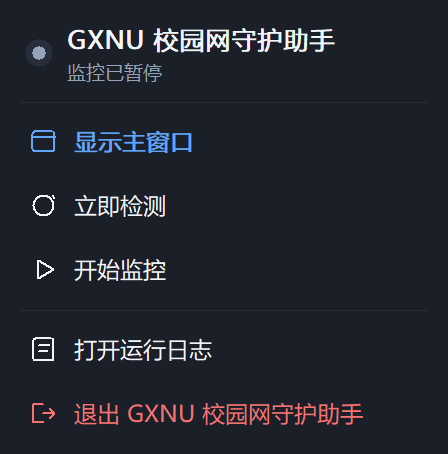
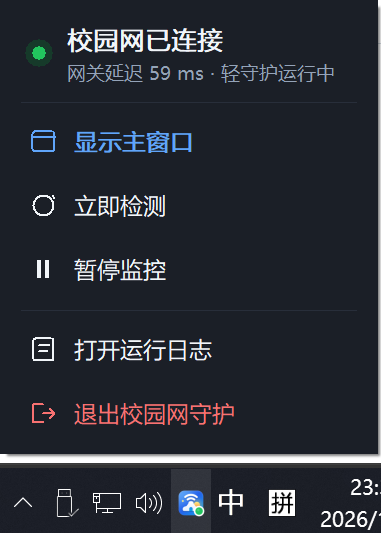
置顶双主题预览，补充任务栏状态图例与使用说明

diff --git a/README.en.md b/README.en.md
@@ -10,28 +10,51 @@
   &nbsp;·&nbsp; <a href="LICENSE"><img src="docs/images/license-mit.svg" alt="MIT License" align="absmiddle"></a>
 </p>
 
-## What you can do
+## Screenshots
 
-- **Reconnect after an outage.** The helper checks the network adapter, route, internet connection, and campus portal session. When a sign-in is needed, it uses your saved account, then checks internet access again to confirm recovery. Enable Windows notifications to see when the connection drops or returns.
-- **See when your connection dropped.** The dashboard plots campus portal response times over the last **1, 7, or 24 hours**. Match a gap in the connection timeline to an outage record, then filter the log by time, severity, or keyword.
-- **Control monitoring from the tray.** Right-click the tray icon to run a check, pause or resume monitoring, or open the log. Closing the dashboard leaves monitoring running in the background. Click the tray icon to reopen it.
+| Light theme | Dark theme |
+| :---: | :---: |
+| [![Light dashboard with portal latency and outage history](docs/images/main-window-light.png)](docs/images/main-window-light.png) | [![Dark dashboard with portal latency and outage history](docs/images/main-window.png)](docs/images/main-window.png) |
 
-## How it handles campus network problems
+Select a dashboard screenshot to view it at full size. Both dashboard screenshots use the `DEMO` account and sample network history.
 
-| Situation | What the helper does |
-| --- | --- |
-| You switch from Wi-Fi to Ethernet or wake the computer from sleep | It waits for the route to settle before checking again, reducing false alerts and unnecessary sign-ins. |
-| Websites stop loading while your campus session is still active | It compares internet probes with the portal’s session status. If the portal confirms you are online, it reports an upstream connection problem and waits for recovery without resubmitting your password. |
-| The portal repeatedly rejects your account or carrier | It retries the first rejection silently. Repeated rejections prompt you to check your account, and the retry interval grows to a maximum of five minutes. |
-| You want a one-off connection check | Pause monitoring and select **立即检测** (Check now). The helper runs one read-only check and stays paused. |
+## Why use it
+
+- **A small Rust process stays in the tray.** One Windows executable contains the background monitor and the on-demand dashboard. Closing the dashboard ends its process. The project recorded about **2.9 MB of private memory and a 5.8 MB working set** for the background process alone. The open dashboard uses additional memory. [Architecture and memory figures (Chinese)](docs/ARCHITECTURE.md)
+- **Prompt reconnection when the network changes.** Switching Wi-Fi, plugging or unplugging Ethernet, or waking the computer triggers a check. Once the route settles, the helper checks the campus session, signs in when needed, and verifies internet access. If the portal still reports an active session, it reports an upstream fault and avoids repeated sign-ins.
+- **An outage history you can investigate.** View **1, 7, or 24 hours** of campus portal latency. Match a drop on the chart to an outage record, then filter the log by time, severity, or keyword to distinguish an expired session from an unreachable gateway.
 
 ## Get started
 
-1. Open Releases using the download link above. Download the Windows x64 ZIP, extract it to a folder you plan to keep, and run `GXNU 校园网守护助手.exe`.
-2. Under **账号与网络** (Account and network), enter your campus student ID and password, select your carrier, and click **保存并开始守护** (Save and start monitoring).
-3. To launch the app at Windows sign-in, open **监控** (Monitoring) and enable **开机自动启动到托盘** (Start in the tray). To begin checking the connection whenever the app launches, also enable **启动后立即开始监控** (Start monitoring on launch).
+1. **Download and extract.** Follow the Windows x64 download link above, extract the ZIP to a folder you plan to keep, and run `GXNU 校园网守护助手.exe`.
+2. **Set up your account.** Under **账号与网络** (Account and network), enter your campus student ID and password, choose your carrier, and select **保存并开始守护** (Save and start monitoring). The top of the dashboard shows your connection status and last check time.
+3. **Set startup preferences.** Under **监控** (Monitoring), enable **开机自动启动到托盘** to launch the app in the tray when you sign in to Windows. Enable **启动后立即开始监控** as well if you want checks to start on launch.
 
-To quit completely, right-click the tray icon and select **退出 GXNU 校园网守护助手** (Exit).
+### Everyday controls
+
+| Task | How to do it |
+| --- | --- |
+| Keep monitoring in the background | Close the dashboard. The monitor stays in the tray. Click its icon in the Windows notification area to reopen the dashboard. |
+| Investigate the last outage | Choose a time range, find the event under **断网记录与原因** (Outages and causes), then check **运行日志** (Log) for the same time. |
+| Run a single check | Right-click the tray icon, select **暂停监控** (Pause), then **立即检测** (Check now). The check is read-only and monitoring stays paused. |
+| Resume monitoring or quit | Select **开始监控** (Start monitoring) from the tray, or **退出 GXNU 校园网守护助手** (Exit) to quit completely. |
+| Switch themes | Click the sun or moon in the upper-right corner of the dashboard to switch between light and dark themes. |
+
+### Tray icon states
+
+The dot in the lower-right corner of the tray icon shows the current state. Hover over the icon for the exact status, including which of the three amber stages is active.
+
+<img src="docs/images/tray-menu.png" alt="Windows taskbar with a green dot on the helper icon. The open menu reports an active campus connection and 59 ms gateway latency." width="300">
+
+The green dot on the helper’s Wi-Fi icon means the connection is online. The open menu confirms **校园网已连接** (Campus network connected) and shows the gateway latency measured at that moment, 59 ms.
+
+| Icon | Tooltip in the app | Meaning |
+| :---: | --- | --- |
+| <img src="docs/images/tray-online.png" width="28" alt="Green dot"> | 网络正常 · Online | An internet probe succeeded. Routine checks continue at the configured interval. |
+| <img src="docs/images/tray-checking.png" width="28" alt="Sky-blue dot"> | 检测中 · Checking | A connection check is in progress. |
+| <img src="docs/images/tray-recovery.png" width="28" alt="Amber dot"> | 正在复核 / 正在登录 / 正在验证 | Rechecking a failure, signing in to the portal, or verifying internet access after sign-in, respectively. A recheck can also return directly to online. |
+| <img src="docs/images/tray-offline.png" width="28" alt="Red dot"> | 连接异常 · Offline | Open the dashboard to see the cause. If the portal repeatedly rejects sign-in, check the student ID, password, and carrier. |
+| <img src="docs/images/tray-paused.png" width="28" alt="Gray dot"> | 已暂停 / 已停止 · Paused or stopped | Automatic checks are inactive. While paused, you can run a single check or resume monitoring from the tray. |
 
 <details>
 <summary>Upgrade from v0.1.0 or verify a download</summary>
@@ -49,16 +72,6 @@ Get-FileHash .\gxnu-campus-net-helper-0.1.1-windows-x64.zip -Algorithm SHA256
 ```
 
 </details>
-
-## Screenshots
-
-**Dashboard** · Account settings, portal latency, outage history, and logs share one screen. The `DEMO` account and network history in this screenshot are sample data.
-
-![Dashboard showing 24 hours of portal latency, two outages, and the event log](docs/images/main-window.png)
-
-**Tray menu** · The menu shows the current monitoring state. Here monitoring is paused, and a one-off check is still available.
-
-<img src="docs/images/tray-menu.png" alt="Tray menu with monitoring paused and actions to check now, start monitoring, or exit" width="256">
 
 ## Data and privacy
 

diff --git a/README.md b/README.md
@@ -10,28 +10,51 @@
   &nbsp;·&nbsp; <a href="LICENSE"><img src="docs/images/license-mit.svg" alt="MIT 许可证" align="absmiddle"></a>
 </p>
 
-## 能帮你做什么
+## 界面预览
 
-- **掉线后自动重连。** 助手检查网卡、路由、公网连通性和校园网门户会话。确认需要认证时，使用已保存的账号登录，再次访问公网以确认恢复。你可以开启 Windows 通知，及时看到断网和恢复提醒。
-- **回看什么时候断过网。** 主窗口可切换最近 **1、7 或 24 小时**的门户响应延迟曲线。通断时间轴和断网记录显示异常发生的时刻，运行日志可按时间、级别或关键词筛选。
-- **从托盘掌控监控。** 右键托盘图标即可立即检测、暂停或恢复监控、打开日志。关闭主窗口后，后台守护继续工作；再次单击托盘图标即可查看详情。
+| 浅色主题 | 深色主题 |
+| :---: | :---: |
+| [![浅色主窗口，含门户延迟曲线与断网记录](docs/images/main-window-light.png)](docs/images/main-window-light.png) | [![深色主窗口，含门户延迟曲线与断网记录](docs/images/main-window.png)](docs/images/main-window.png) |
 
-## 为什么适合校园网
+点击主窗口截图可查看原图。两张主窗口截图均使用 `DEMO` 账号和演示数据。
 
-| 遇到的情况 | 助手如何处理 |
-| --- | --- |
-| 从 Wi-Fi 切换到有线，或电脑刚从睡眠恢复 | 先等网络出口稳定再复查，给系统重新取得路由的时间，减少切网时的误报和重复登录。 |
-| 校园网账号仍在线，但网页打不开 | 对照公网探测和门户会话状态。门户确认在线时，标记公网出口异常并等待恢复，避免反复提交密码。 |
-| 密码或运营商选错，登录持续被拒 | 首次被拒后静默重试，连续被拒才提醒核对账号。重试间隔逐步延长，最长为 5 分钟。 |
-| 只想检查当前连接 | 暂停监控后点击 **立即检测**，助手只读检查一次，监控保持暂停。 |
+## 项目优势
+
+- **Rust 原生构建，适合常驻。** 一个 EXE 包含托盘守护和按需打开的图形界面。关闭主窗口后，界面进程退出。项目记录的典型后台占用约为 **2.9 MB 私有内存、5.8 MB 工作集**；打开看板时，界面进程另计。[架构与测量口径](docs/ARCHITECTURE.md)
+- **网络变化时及时复查，需要时自动重登。** 切换 Wi-Fi、插拔网线或从睡眠恢复，都会触发检查。助手等路由短暂稳定后核对校园网会话，符合认证条件就重登，并再次探测公网确认恢复。门户仍在线时，会提示出口故障，避免重复提交凭据。
+- **能看出何时掉线、为何掉线。** 看板可查看最近 **1、7 或 24 小时**的门户响应延迟。将曲线上的异常时刻与断网记录对照，再按时间、级别或关键词筛选日志，就能区分认证过期、网关不可达等情况。
 
 ## 安装与使用
 
-1. 从页首下载链接进入 Releases，下载 Windows x64 的 ZIP 发行包，解压到固定目录，双击 `GXNU 校园网守护助手.exe`。
-2. 在 **账号与网络** 中填写自己的校园网学号和密码，选择运营商，点击 **保存并开始守护**。
-3. 需要随 Windows 登录启动时，在 **监控** 设置中开启 **开机自动启动到托盘**。如果还希望每次启动后自动开始巡检，同时开启 **启动后立即开始监控**。
+1. **下载并解压。** 在页首打开 Windows x64 下载页，将 ZIP 解压到固定目录，双击 `GXNU 校园网守护助手.exe`。
+2. **首次登录。** 在 **账号** 页的 **账号与网络** 区域 中填写校园网学号、密码，选择对应运营商，点击 **保存并开始守护**。顶部显示当前连接状态和最近检测时间。
+3. **设置自启。** 在 **监控** 中打开 **开机自动启动到托盘**，程序会在登录 Windows 时启动。想让它启动后就开始巡检，再打开 **启动后立即开始监控**。
 
-要完全退出，右键托盘图标，选择 **退出 GXNU 校园网守护助手**。
+### 日常操作
+
+| 你想做什么 | 操作 |
+| --- | --- |
+| 放到后台，稍后再看 | 关闭主窗口，托盘守护继续运行。单击任务栏通知区域的应用图标即可重新打开。 |
+| 查看上一次掉线的原因 | 在看板选择时间范围，查看 **断网记录与原因**，再到 **运行日志** 查找相同时刻的事件。 |
+| 只检测一次 | 右键托盘图标，选择 **暂停监控**，然后点击 **立即检测**。本次检查只读，完成后仍保持暂停。 |
+| 恢复监控或完全退出 | 在托盘菜单选择 **开始监控** 恢复巡检，或选择 **退出 GXNU 校园网守护助手** 结束程序。 |
+| 切换界面主题 | 点击主窗口右上角的太阳或月亮图标，切换浅色与深色主题。 |
+
+### 看懂任务栏托盘图标
+
+图标右下角的圆点表示当前状态。将鼠标停在图标上可看到具体提示，尤其适合区分同为琥珀色的三个阶段。
+
+<img src="docs/images/tray-menu.png" alt="Windows 任务栏中的助手图标带绿色圆点，右键菜单显示校园网已连接，网关延迟 59 ms" width="300">
+
+图中任务栏 Wi-Fi 图标右下角的绿点表示联网正常。右键菜单同时显示「校园网已连接」和当次测得的网关延迟（59 ms）。
+
+| 图标 | 悬停提示 | 含义 |
+| :---: | --- | --- |
+| <img src="docs/images/tray-online.png" width="28" alt="绿色圆点"> | 网络正常 | 公网探测通过，按设定间隔继续巡检。 |
+| <img src="docs/images/tray-checking.png" width="28" alt="天蓝色圆点"> | 检测中 | 正在检测当前连接，等待本轮结果。 |
+| <img src="docs/images/tray-recovery.png" width="28" alt="琥珀色圆点"> | 正在复核 / 正在登录 / 正在验证 | 分别表示复查异常、提交门户认证、登录后验证公网连通性。一次复核也可能直接恢复正常。 |
+| <img src="docs/images/tray-offline.png" width="28" alt="红色圆点"> | 连接异常 | 已判定离线。打开主窗口查看原因；连续登录被拒时，请核对学号、密码和运营商。 |
+| <img src="docs/images/tray-paused.png" width="28" alt="灰色圆点"> | 已暂停 / 已停止 | 自动监控未运行。暂停期间可手动检测，也可从托盘恢复监控。 |
 
 <details>
 <summary>从 v0.1.0 升级或校验下载文件</summary>
@@ -49,16 +72,6 @@ Get-FileHash .\gxnu-campus-net-helper-0.1.1-windows-x64.zip -Algorithm SHA256
 ```
 
 </details>
-
-## 界面预览
-
-**主窗口** · 同一屏查看账号设置、门户延迟、断网原因和运行日志。下图的 `DEMO` 账号和网络记录均为演示数据。
-
-![主窗口展示 24 小时的门户延迟曲线、两次断网记录和运行日志](docs/images/main-window.png)
-
-**托盘菜单** · 菜单顶部显示当前状态。下图中监控已暂停，仍可执行一次检测。
-
-<img src="docs/images/tray-menu.png" alt="暂停状态的托盘菜单，含立即检测、开始监控和退出操作" width="256">
 
 ## 数据与隐私
 
